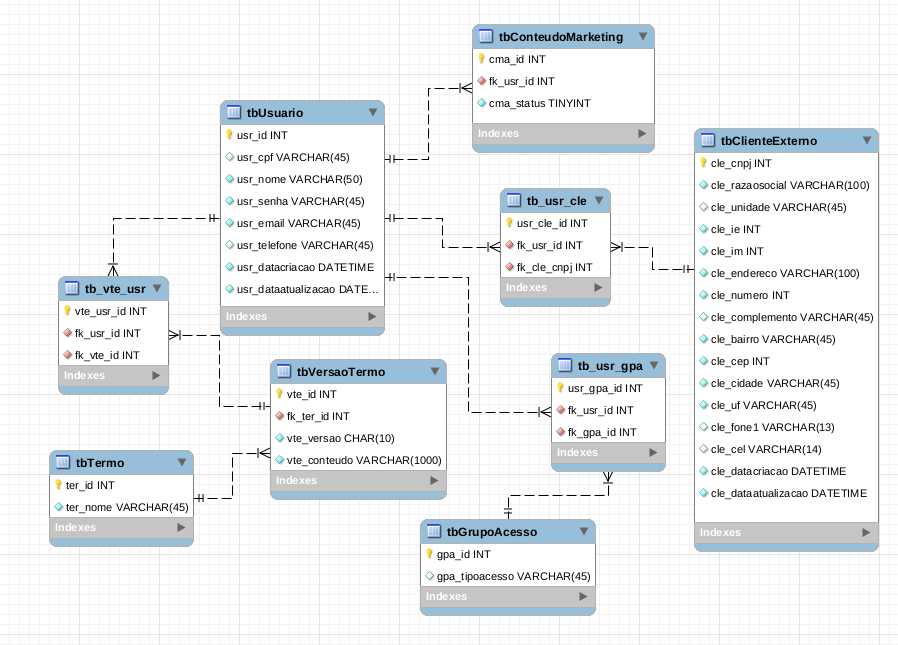
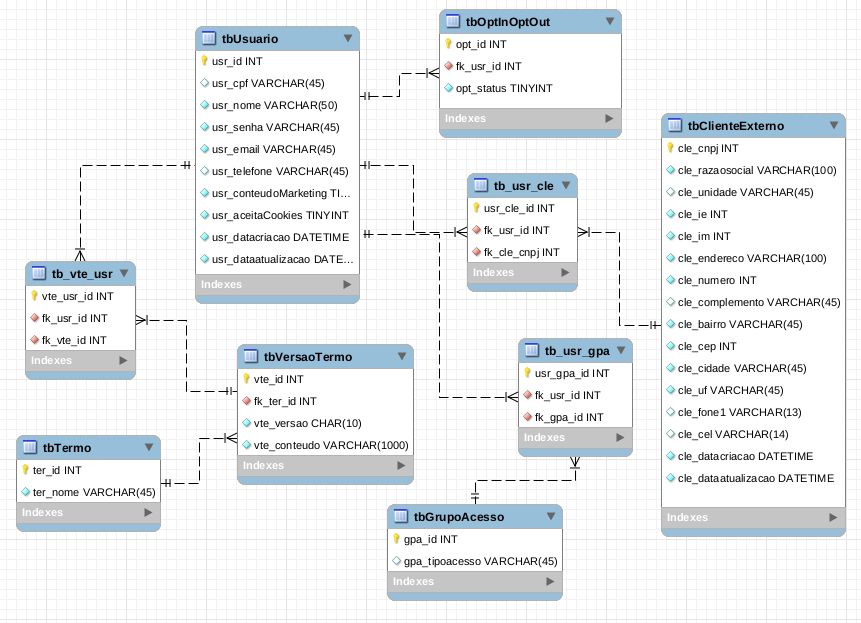
update readme

Changed region(s): [[0.0, 0.0305, 0.7247, 0.9759], [0.4832, 0.0, 0.9965, 0.8844]]

diff --git a/userdatalgpd/api/utils.py b/userdatalgpd/api/utils.py
@@ -127,6 +127,11 @@ def createUser(request, User):
             profile.usr_cpf = value
         if key == "usr_telefone":
              profile.usr_telefone = value
+        if key == "usr_conteudoMarketing":
+            profile.usr_conteudoMarketing = value
+        if key == "usr_aceitaCookies":
+            profile.usr_aceitaCookies = value
+
     profile.save()
 
     return username
@@ -147,6 +152,10 @@ def updateUser(request, pk,getOne, User, ModelSerializer):
             profile.usr_cpf = value
         if key == "usr_telefone":
             profile.usr_telefone = value
+        if key == "usr_conteudoMarketing":
+            profile.usr_conteudoMarketing = value
+        if key == "usr_aceitaCookies":
+            profile.usr_aceitaCookies = value
     profile.save()
 
     try:

diff --git a/userdatalgpd/api/serializers.py b/userdatalgpd/api/serializers.py
@@ -21,6 +21,8 @@ class profileSerializer(serializers.ModelSerializer):
             'user',
             'usr_cpf',
             'usr_telefone',
+            'usr_conteudoMarketing',
+            'usr_aceitaCookies',
             'usr_datacriacao',
             'usr_dataatualizacao'
         )

diff --git a/userdatalgpd/api/insert_db.py b/userdatalgpd/api/insert_db.py
@@ -7,7 +7,8 @@ grupos = [ "READ_USERS",
            "READ_PROFILES",
            "READ_LOGS",
            "READ_CLIENTES_EXTERNOS",
-           "READ_TERMOS"
+           "READ_TERMOS",
+           "READ_HISTORICOS",
            ]
 
 def createGroups():

diff --git a/README.md b/README.md
@@ -1,2 +1,112 @@
-# dados-usuario-lgpd
-Plataforma para tratar dados de usuários e Opt-In/Opt-Out segundo a LGPD
+# Projeto - SEM6 - Tópicos Avançados em Banco de Dados - Prof. Sakaue - Fatec SJC Prof. Jessen Vidal.
+
+
+# API - Gerenciamento de Usuários respeitando a LGPD
+
+
+
+## :orange_book: <b>Desafio apresentado:</b>
+
+Implementar alternativas de solução decorrentes da implantação da LGPD.
+
+
+## <b>:dart: Objetivo da Aplicação</b>
+
+O objetivo da aplicação é atender a LGPD nos quesitos abaixo:
+
+* Sistema de Gerenciamento de Usuários;
+* Termos de Responsabilidade;
+* Opt-In e Opt-Out;
+* Históricos;
+* Cadastro de Terceiro que terão acesso à API;
+* Autenticação utilizando Bearer Token;
+* Controle de acesso à rotas através de grupos de usuário;
+
+### Sistema de Gerenciamento de Usuários:
+
+Para este objetivo, foi desenvolvido um sistema de criação, atualização, deleção de usuários da aplicação, onde temos 3 tipos de usuários, são eles: Usuários comuns; Usuários Adm's; Usuários Terceiros;
+
+Cada usuário possui suas credenciais de acesso, com senha criptografada.
+
+A cada movimentação deste usuário, é registrado a data e horário de criação, atualização e exclusão, garantindo assim, as exigências da LGPD.
+
+
+
+### Termos de Responsabilidade:
+
+Foi desenvolvido um sistema de controle de termos de responsabilidade do usuário, onde é possível criar o termo e versões do termo, para caso haja a necessidade de atualização do mesmo.
+
+Os usuários possuem a opção de assinar o termo ou não.
+
+
+### Opt-In e Opt-Out:
+
+Cada usuário possui a opção de aceitar o Opt-In Opt-Out, e com isso, foi disponibilizada no perfil do usuário uma opção Booleana para que seja ativada essa opção ou não.
+
+### Históricos:
+
+Para atender as exigências da LGPD, foi desenvolvido um sistema de históricos, onde temos configurados os seguintes históricos:
+
+* Criação de Usuário;
+* Exclusão de Usuário;
+* Atualização de Usuário;
+* Usuários Terceiro;
+* Adição de usuário terceiro em grupo de acesso;
+* Remoção de usuário terceiro em grupo de acesso;
+* Aceite de usuário em relação ao termo de responsabilidade;
+
+
+### Cadastro de Terceiro que terão acesso à API:
+
+Foi desenvolvido um sistema de controle de acesso à API feitas por Terceiros, onde é possível, com segurança, fornecer nossa API para clientes.
+
+Tudo se inicia no cadastramento do terceiro, com dados de CNPJ; Razão Social e etc... Após esta etapa, é realizada a criação de um usuário do sistema, onde este será vinculado ao terceiro. 
+
+
+### Autenticação utilizando Bearer Token:
+
+Para que a API seja acessada de forma segura, foi realizada a criação de autenticação através de Bearer Token, onde o Token gerado se expira a cada 5 minutos, havendo a necessidade de um Refresh e assim continuar o acesso à API.
+
+Esta forma de segurança é a mais utilizada no mercado. Só pelo fato da utilização do Token, já nos traz segurança, mas pelo fato de atualizar a cada 5 minutos para cada sessão, nos traz uma segurança ainda maior.
+
+Este método é comumente indicado por equipes de segurança da informação para atender exigências da LGPD.
+
+### Controle de acesso à rotas através de grupos de usuário:
+
+Foi realizado um sistema de controle de acesso à API por grupos, onde as rotas são classificadas e disponibilizadas de acordo com a necessidade de cada cliente.
+
+Esta forma de configuração traz segurança, onde o usuário terceiro só terá acesso à aquele recurso se ele realmente tiver a necessidade de acessar.
+
+O cadastramento de usuários terceiro em grupos só é realizada por usuários administradores.
+
+Exemplos de grupos:
+
+* READ_USERS;
+* READ_PROFILES;
+* READ_LOGS;
+* READ_CLIENTES_EXTERNOS;
+* READ_TERMOS;
+* READ_HISTORICOS;
+
+
+## <b>⚙ Tecnologias Adotadas na Solução:</b>
+
+* [Python 3.8.10](https://www.python.org/)
+* [Django 4.0.3](https://www.djangoproject.com/)
+* [Django Rest Framework 3.13.1](https://www.django-rest-framework.org/)
+* [PostgreSQL 14.2](https://www.postgresql.org/)
+* [MySQL WorkBench](https://www.mysql.com/products/workbench/)
+* [PostMan (Para Testes)](https://www.postman.com/)
+* [PsycoPG2 2.9.3](https://pypi.org/project/psycopg2/)
+* [PyJWT 2.3.0](https://pyjwt.readthedocs.io/en/stable/)
+
+
+## <b> :wrench: Desenvolvimento da Aplicação: </b>
+
+### Mapa mental da aplicação:
+
+![https://user-images.githubusercontent.com/62898187/166472375-1b8a37ad-86d6-4faa-8322-078513c25b6c.png](https://user-images.githubusercontent.com/62898187/166472375-1b8a37ad-86d6-4faa-8322-078513c25b6c.png)
+### Modelo Entidade Relacionamento - MER
+
+![MER - User Data](https://user-images.githubusercontent.com/62898187/166472834-8882d427-6914-4a38-a5db-1e5164e15db9.png)
+
